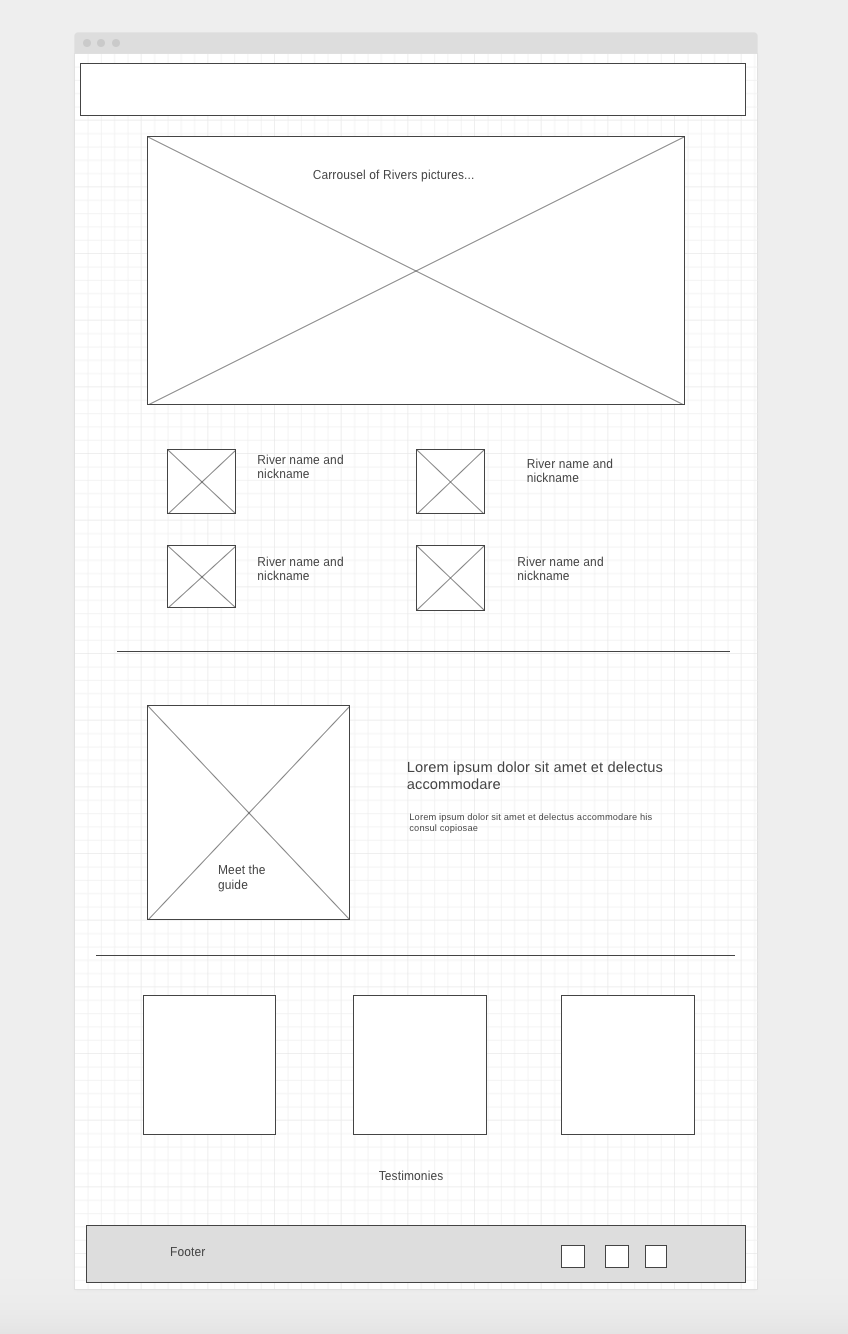
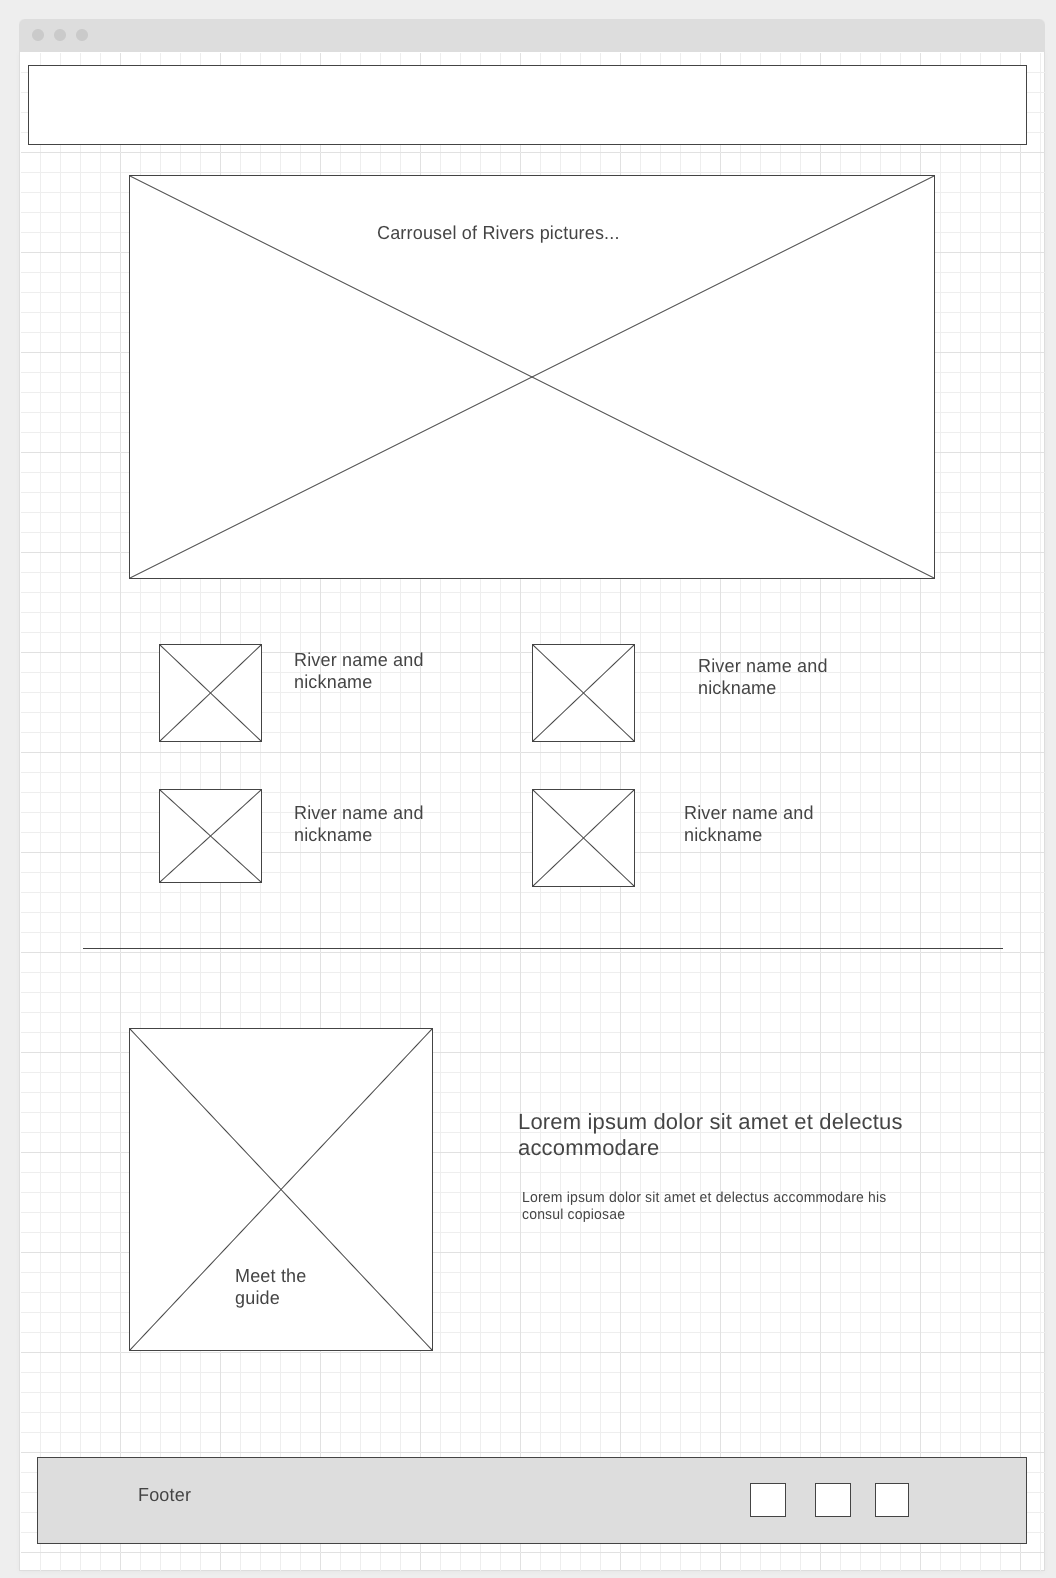
Page 2 submit

diff --git a/wwr/rivers.html b/wwr/rivers.html
@@ -1,0 +1,72 @@
+<!DOCTYPE html>
+<html lang="en">
+<head>
+    <meta charset="UTF-8">
+    <meta http-equiv="X-UA-Compatible" content="IE=edge">
+    <meta name="viewport" content="width=device-width, initial-scale=1.0">
+    <title>Whitewater Rafting Vacations | Dry Oar Boating | Rivers</title>
+    <link rel="stylesheet" href="styles/style.css">
+</head>
+<body>
+    <div id="content">
+        <header>
+            <a id="logo_link" href="index.html">
+             <img class="logo" src="images/logo.png" alt="Dry Oar Logo"> 
+            </a>
+            <nav>
+                 <a href="index.html">Home</a>
+                 <a href="rivers.html">Rivers</a>
+                 <a href="site-plan-rafting.html">Site Plan</a>
+                 <a href="contactus.html">Contact Us</a>
+            </nav>
+         </header>
+
+        <main>
+            <div class="rivers-carrousel">
+                <img class= "rivers-img" id="rivers-img" src="images/rsz_rivers1.jpg" alt="river photo">
+            </div>
+            <div class="rivers-grid">
+                <section class="rivers-card1">
+                    <img class="rivers-card-img" id="rivers-card1" src="images/rsz_rivers1.jpg" alt="river photo">
+                    <h4>Salmon River</h4>
+                </section>
+                <section class="rivers-card2">
+                    <img class="rivers-card-img" id="rivers-card2" src="images/rsz_rivers2.jpg" alt="river photo">
+                    <h4>Grand Canyon</h4>
+                </section>
+                <section class="rivers-card3">
+                    <img class="rivers-card-img" id="rivers-card3" src="images/rsz_rivers3.jpg" alt="river photo">
+                    <h4>Gray Canyon</h4>
+                </section>
+            </div>
+            <hr class="rounded">
+            <div class="meet-the-guide">
+                <section>
+                    <img src="images/guide.jpg" class="tour-guide" alt="tour guide portrait">
+                    <p class="tour-guide"><strong>Meet the Guide.</strong><br>John has been safely touring these rivers for the last 30 years.</p>
+                </section>
+
+            </div>
+
+        </main>
+
+         <footer>
+             <p>Dry Oar &copy; 2023 - Santiago Risso</p>
+             <p><a href="site-plan-rafting.html">Site Plan</a></p>
+             <p><a href="contactus.html">Contact Us</a></p>
+             <div class="social">
+                 <a href="https://facebook.com" target="_blank">
+                     <img src="images/facebook.png" alt="fb icon">
+                 </a>
+                 <a href="https://twitter.com" target="_blank">
+                     <img src="images/twitter.png" alt="twitter icon">
+                 </a>
+                 <a href="https://instagram.com" target="_blank">
+                     <img src="images/instagram.png" alt="instagram icon">
+                 </a>
+             </div>
+         </footer>
+    </div>
+</body>
+<script src="script.js"></script>
+</html>

diff --git a/w9-challenge/index.html b/w9-challenge/index.html
@@ -1,0 +1,37 @@
+<!DOCTYPE html>
+<html lang="en">
+<head>
+    <meta charset="UTF-8">
+    <meta http-equiv="X-UA-Compatible" content="IE=edge">
+    <meta name="viewport" content="width=device-width, initial-scale=1.0">
+    <title>Week 9 - Challenge</title>
+    <link rel="stylesheet" href="styles.css">
+</head>
+<body>
+    <div class="content">
+        <div class="card">
+            <img src="static/bridge.jpg" alt="bridge photo">
+            <h6 class="small-title">3 weeks ago</h6>
+            <h1 class="title">Post Three</h1>
+            <p class="card-text">This would be some text to go here and tell you about this awesome article that they should definitely read. 
+                This would be some text to go here and tell you about this awesome article that they should definitely read. 
+                This would be some text to go here.
+            </p>
+            <div class="grid-container">
+                <div class="grid-item1">
+                    <p class="grid-item-text">5<sup>m</sup><br></p>
+                    <p class="text">READ</p>
+                </div>
+                <div class="grid-item2">
+                    <p class="grid-item-text">2031</p>
+                    <p class="text">VIEWS</p>
+                </div>
+                <div class="grid-item3">
+                    <p class="grid-item-text">15</p>
+                    <p class="text">COMMENTS</p>
+                </div>
+              </div>
+        </div>
+    </div>
+</body>
+</html>

diff --git a/w9-challenge/styles.css b/w9-challenge/styles.css
@@ -1,0 +1,72 @@
+body {
+    background-color: black;
+}
+
+.card {
+    box-shadow: 0 4px 8px 0 rgba(0,0,0,0.2);
+    transition: 0.3s;
+    border-radius: 15px 15px;
+    width: 330px;
+    height: 673px;
+    background-color: white;
+    margin-left: auto;
+    margin-right: auto;
+  }
+
+  img {
+    width: 100%;
+    border-radius: 15px 15px 0 0;
+  }
+
+  h6 {
+    text-align: center;
+    font-size: large;
+    color: royalblue;
+    margin-bottom: 5px;
+  }
+  h1 {
+    margin-top: 10px;
+    text-align: center;
+  }
+  .card-text {
+    width: 80%;
+    text-align: center;
+    color: gray;
+    margin-left: auto;
+    margin-right: auto;
+    font-size: larger;
+    padding-bottom: 20px;
+  }
+  .grid-container {
+    display: grid;
+    column-gap: 1px;
+    height:80px;
+    grid-template-columns: 1fr 1fr 1fr;
+  }
+  .grid-item1{
+    grid-column: 1/1;
+    text-align: center;
+    background-color: rgb(43, 105, 168);
+    border-radius: 0 0 0 15px;
+  }
+  .grid-item2{
+    grid-column: 2/2;
+    text-align: center;
+    background-color: rgb(43, 105, 168);
+  }
+  .grid-item3{
+    grid-column: 3/3;
+    text-align: center;
+    background-color: rgb(43, 105, 168);
+    border-radius: 0 0 15px 0;
+  }
+ .grid-item-text {
+    color: white;
+    font-size:1.8rem;
+    margin-bottom: 0px;
+ }
+ .text {
+    color: white;
+    font-size:0.8rem;
+    margin-top: 0px;
+ }

diff --git a/wwr/styles/style.css b/wwr/styles/style.css
@@ -176,6 +176,62 @@ nav {
     transform: scale(1.08);
 }
 
+/* RIVERS Page CSS */
+.rivers-carrousel {
+    margin-left: auto;
+    margin-right: auto;
+    margin-top: 30px;
+}
+.rivers-img {
+    width: 800px;
+    height: 500px;
+}
+.rivers-grid{
+    display: grid;
+    width: 500px;
+    grid-template-columns: 1fr 1fr 1fr;
+    margin-left: auto;
+    margin-right: auto;
+    margin-bottom: 50px;
+    grid-gap: 50px;
+}
+.rivers-card1{
+    grid-column: 1/1;
+}
+.rivers-card2{
+    grid-column: 2/2;
+}
+.rivers-card3{
+    grid-column: 3/3;
+}
+.rivers-card-img {
+    margin-top: 20px;
+    border: 5px solid black;
+    width: 100%;
+    transition: transform .5s;
+    box-shadow: 5px 5px 10px #6f7364;
+}
+.rivers-card-img:hover {
+    opacity: .6;
+}
+h4 {
+    margin: 0;
+    font-size: small;
+}
+
+/* Rounded border */
+hr.rounded {
+    border-top: 8px solid #bbb;
+    border-radius: 5px;
+}
+.tour-guide {
+    width: 300px;
+    align-self: flex-start;
+    display: inline-block;
+    vertical-align: middle;
+    margin-top: 50px;
+}
+
 @media screen and (max-width: 900px) {
     #hero, .home-grid {
         display: block;

diff --git a/wwr/script.js b/wwr/script.js
@@ -1,0 +1,25 @@
+//Listening events for all 3 small river images
+document.getElementById("rivers-card1").addEventListener("click", () => {
+    document.getElementById("rivers-img").src = "images/rsz_rivers1.jpg";
+});
+document.getElementById("rivers-card2").addEventListener("click", () => {
+    document.getElementById("rivers-img").src = "images/rsz_rivers2.jpg";
+});
+document.getElementById("rivers-card3").addEventListener("click", () => {
+    document.getElementById("rivers-img").src = "images/rsz_rivers3.jpg";
+});
+
+
+let images = ["images/rsz_rivers2.jpg", "images/rsz_rivers3.jpg", "images/rsz_rivers1.jpg"];
+
+let index = 0;
+const imgElement = document.getElementById('rivers-img');
+
+function change() {
+   imgElement.src = images[index];
+   index > 1 ? index = 0 : index++;
+}
+
+window.onload = function () {
+    setInterval(change, 5000);
+};

diff --git a/wwr/index.html b/wwr/index.html
@@ -15,7 +15,7 @@
             </a>
             <nav>
                  <a href="index.html">Home</a>
-                 <a href="#">Page 2</a>
+                 <a href="rivers.html">Rivers</a>
                  <a href="site-plan-rafting.html">Site Plan</a>
                  <a href="contactus.html">Contact Us</a>
             </nav>
